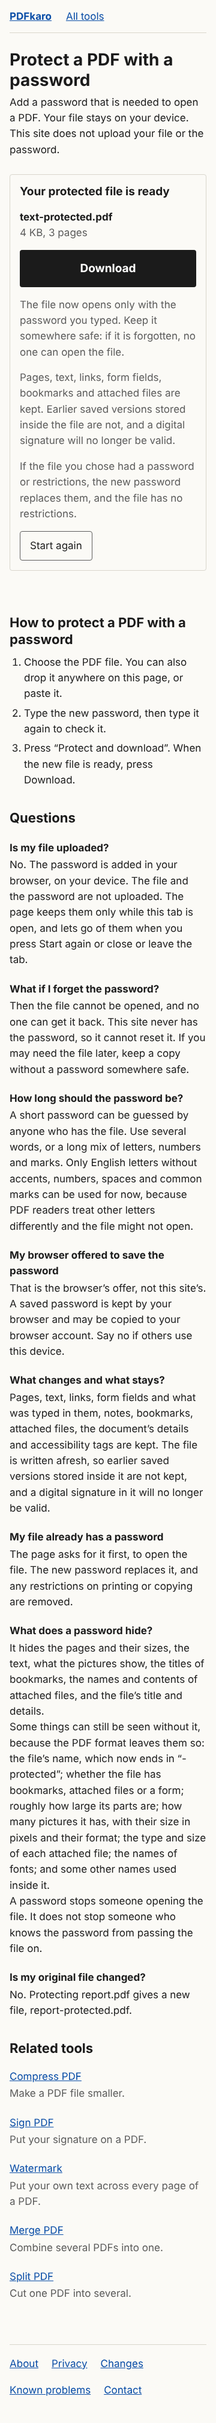
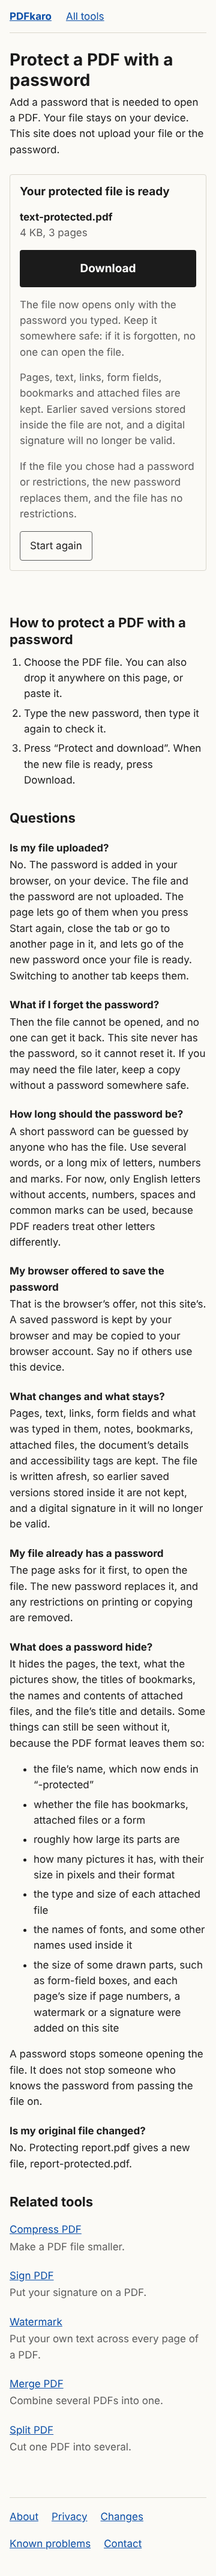
add-protect-pdf: settle stage 2 findings
- strongEncryption tested with every weaker or broken answer, the RC4 file's
  and restricted.pdf's own; qpdf's JSON read with record guards, no casts.
- Page sizes are no longer claimed as hidden: a drawn part's /BBox stays
  readable (form fields, and the layers of Add page numbers, Watermark and
  Sign PDF), said on the page and in the design, spec, tasks and fixtures
  README; form.pdf's /BBox recorded as readable in the unit test.
- The page text says when the page lets go of the file and the password,
  and lists what can still be seen as a plain bulleted list.
- Progress: the write fills the bar to 50, then 55, 95 and 100 as each check
  passes, as the check with the password takes about as long as the write.
- The design's cap passages describe the empty-streams file the test uses.
- Task 10.1 says which 19 screenshots the pull request carries, taken again
  with the new page text.

Claude-Session: https://claude.ai/code/session_01Ht5n4xeEVAutobXrc7qGtN

Changed region(s): [[0.0306, 0.0, 0.9472, 0.9998], [0.6722, 0.906, 0.7333, 0.9373]]

diff --git a/tests/unit/protect-pdf.test.ts b/tests/unit/protect-pdf.test.ts
@@ -362,7 +362,44 @@ describe('what the password hides, and what the format leaves readable', () => {
     // The attached file's name, its dates and its contents are not readable.
     expect(rich).not.toContain('note.txt');
     expect(rich).not.toContain('A note kept inside');
-    expect(latin1((await protect(fixture('form.pdf'))).output)).toContain('/Helvetica');
+    const form = latin1((await protect(fixture('form.pdf'))).output);
+    expect(form).toContain('/Helvetica');
+    // A drawn part's own box, such as a form field's appearance, stays readable too.
+    expect(form).toMatch(/\/BBox\s*\[/);
+  });
+});
+
+describe('strongEncryption, the check of qpdf\'s answer', () => {
+  it('takes the answer for a protected file, and refuses each weaker or broken answer', async () => {
+    const good = await encryptionOf((await protect(fixture('text.pdf'))).output, P);
+    expect(strongEncryption({ encrypt: good })).toBe(true);
+    const parameters = good.parameters as Record<string, unknown>;
+    const capabilities = good.capabilities as Record<string, unknown>;
+    const changed = (change: Record<string, unknown>) => ({ encrypt: { ...good, ...change } });
+    expect(strongEncryption(changed({ encrypted: false }))).toBe(false);
+    expect(strongEncryption(changed({ userpasswordmatched: false }))).toBe(false);
+    expect(strongEncryption(changed({ parameters: { ...parameters, R: 5 } }))).toBe(false);
+    expect(strongEncryption(changed({ parameters: { ...parameters, V: 4 } }))).toBe(false);
+    expect(strongEncryption(changed({ parameters: { ...parameters, bits: 128 } }))).toBe(false);
+    for (const method of ['stringmethod', 'streammethod', 'filemethod']) expect(strongEncryption(changed({ parameters: { ...parameters, [method]: 'AESv2' } })), method).toBe(false);
+    for (const name of Object.keys(capabilities)) {
+      const fewer = Object.fromEntries(Object.entries(capabilities).filter(([key]) => key !== name));
+      expect(strongEncryption(changed({ capabilities: fewer })), name).toBe(false);
+      expect(strongEncryption(changed({ capabilities: { ...capabilities, [name]: false } })), name).toBe(false);
+    }
+    expect(strongEncryption(changed({ parameters: null }))).toBe(false);
+    expect(strongEncryption(changed({ capabilities: [] }))).toBe(false);
+    for (const broken of [null, undefined, {}, { encrypt: 'x' }, { encrypt: null }, { encrypt: [] }, 'encrypt', 42]) expect(strongEncryption(broken), JSON.stringify(broken)).toBe(false);
+  });
+
+  it("refuses restricted.pdf's own answer and a 128-bit RC4 file's", async () => {
+    expect(strongEncryption({ encrypt: await encryptionOf(fixture('restricted.pdf')) })).toBe(false);
+    const qpdf = await makeQpdf();
+    qpdf.write('/in.pdf', fixture('text.pdf'));
+    // Weak encryption is made here, in the test only.
+    const made = qpdf.call(['/in.pdf', '--allow-weak-crypto', '--encrypt', '--user-password=old-rc4', '--owner-password=old-rc4', '--bits=128', '--use-aes=n', '--', '/out.pdf']);
+    expect(finished(made.code)).toBe(true);
+    expect(strongEncryption({ encrypt: await encryptionOf(qpdf.read('/out.pdf'), 'old-rc4') })).toBe(false);
   });
 });
 
@@ -382,14 +419,14 @@ describe('keys, progress and the cap', () => {
     expect(Buffer.from(one).equals(Buffer.from(two))).toBe(false);
   });
 
-  it('progress: reading first, then writing percentages that never go back, with 93, 96 and 100 last', async () => {
+  it('progress: reading first, then writing percentages that never go back, the write up to 50, with 55, 95 and 100 last', async () => {
     const { progress } = await protect(fixture('pages-500.pdf'));
     expect(progress[0]).toEqual({ stage: 'reading', unit: 'file', done: 0, total: 1 });
     const percents = progress.slice(1).map((step) => (step.stage === 'writing' ? step.percent : Number.NaN));
     expect(percents.every((percent) => Number.isFinite(percent))).toBe(true);
     expect(percents).toEqual([...percents].sort((x, y) => x - y));
-    expect(percents.slice(-3)).toEqual([93, 96, 100]);
-    expect(percents.slice(0, -3).every((percent) => percent <= 90)).toBe(true);
+    expect(percents.slice(-3)).toEqual([55, 95, 100]);
+    expect(percents.slice(0, -3).every((percent) => percent <= 50)).toBe(true);
     expect(percents.length).toBeGreaterThan(4);
   });
 

diff --git a/src/engines/tools/protect-pdf.ts b/src/engines/tools/protect-pdf.ts
@@ -22,7 +22,7 @@
 import { inspectPdf } from '../inspect';
 import { freshQpdf, passwordFrom } from '../plain';
 import { cappedWrite, finished, saidInvalidPassword } from '../qpdf';
-import { passwordArgsFor } from '../qpdf-json';
+import { isDict, passwordArgsFor } from '../qpdf-json';
 import type { Engine, EngineTools, Inspector } from '../types';
 import { acceptedPassword, PasswordRefused } from '../../widget/option-values';
 
@@ -74,28 +74,30 @@ const capabilities = ['accessibility', 'extract', 'modify', 'modifyannotations',
 
 /** Whether qpdf's `encrypt` answer is 256-bit AES, revision 6, opened by the password, with every permission. */
 export function strongEncryption(answer: unknown): boolean {
-  const encrypt = (answer as { encrypt?: Record<string, unknown> } | null)?.encrypt;
-  if (typeof encrypt !== 'object' || encrypt === null) return false;
-  const parameters = encrypt.parameters as Record<string, unknown> | undefined;
-  const allowed = encrypt.capabilities as Record<string, unknown> | undefined;
+  if (!isDict(answer) || !isDict(answer.encrypt)) return false;
+  const { encrypt } = answer;
+  const parameters = encrypt.parameters;
+  const allowed = encrypt.capabilities;
+  if (!isDict(parameters) || !isDict(allowed)) return false;
   return (
     encrypt.encrypted === true &&
     encrypt.userpasswordmatched === true &&
-    parameters?.R === 6 &&
+    parameters.R === 6 &&
     parameters.V === 5 &&
     parameters.bits === 256 &&
     parameters.stringmethod === 'AESv3' &&
     parameters.streammethod === 'AESv3' &&
     parameters.filemethod === 'AESv3' &&
-    typeof allowed === 'object' &&
-    allowed !== null &&
     capabilities.every((name) => allowed[name] === true)
   );
 }
 
 const notChecked = 'The protected file did not pass its check.';
 
-/** Checks the new file on a fresh qpdf, moving progress to 93, 96 and 100 as each step passes. */
+/**
+ * Checks the new file on a fresh qpdf, moving progress to 55, 95 and 100 as each step passes: the JSON answer is
+ * quick, `--check` with the password reads every stream and takes about as long as the write, the refusal is quick.
+ */
 async function verify(tools: EngineTools, out: Uint8Array, password: string, onStep: (percent: number) => void): Promise<void> {
   const checker = await freshQpdf(tools, out);
   const described = checker.call([`--password=${password}`, '--json=2', '--json-key=encrypt', '/in.pdf']);
@@ -107,9 +109,9 @@ async function verify(tools: EngineTools, out: Uint8Array, password: string, onS
     throw new Error(notChecked);
   }
   if (!strongEncryption(answer)) throw new Error(notChecked);
-  onStep(93);
+  onStep(55);
   if (!finished(checker.call([`--password=${password}`, '--check', '/in.pdf']).code)) throw new Error(notChecked);
-  onStep(96);
+  onStep(95);
   const without = checker.call(['--check', '/in.pdf']);
   if (finished(without.code) || !saidInvalidPassword(without.printed)) throw new Error(notChecked);
   onStep(100);
@@ -123,7 +125,7 @@ export const run: Engine<Options> = async (files, options, onProgress, tools) =>
   if (password === undefined) throw new PasswordRefused();
   const old = passwordFrom(options);
   onProgress({ stage: 'reading', unit: 'file', done: 0, total: 1 });
-  const out = await protectedBytes(tools, file, old, password, (percent) => onProgress({ stage: 'writing', percent: percent * 0.9 }));
+  const out = await protectedBytes(tools, file, old, password, (percent) => onProgress({ stage: 'writing', percent: percent * 0.5 }));
   await verify(tools, out, password, (percent) => onProgress({ stage: 'writing', percent }));
   return [out];
 };

diff --git a/tests/e2e/protect-pdf.spec.ts b/tests/e2e/protect-pdf.spec.ts
@@ -606,9 +606,14 @@ test.describe('the words below the tool', () => {
       'My file already has a password',
       'What does a password hide?',
       'which now ends in “-protected”',
+      '<li>the size of some drawn parts, such as form-field boxes, and each page’s size if page numbers, a watermark or a signature were added on this site</li>',
+      'Switching to another tab keeps them.',
     ]) {
       expect(html).toContain(words);
     }
+    // What can still be seen is a plain list, and page sizes are not claimed as hidden.
+    expect(html.match(/<ul>[\s\S]*?<\/ul>/)?.[0].match(/<li>/g)).toHaveLength(7);
+    expect(html).not.toContain('pages and their sizes');
     expect(html.toLowerCase()).not.toContain('unlock');
   });
 });

diff --git a/openspec/changes/add-protect-pdf/design.md b/openspec/changes/add-protect-pdf/design.md
@@ -18,7 +18,7 @@
   - **Nothing secret was in the bytes.** P never appeared in a result. The marked title and XMP words did not either, and PDF.js read the title back once the file was opened with P. PDF.js refused no password, and refused P less its last character.
   - **Progress:** qpdf printed several `write progress: N%` lines (52 for `pages-500.pdf`).
   - **Sizes went down** with object streams generated: `text.pdf` from 6,057 to 4,302 bytes, `pages-500.pdf` from 198,025 to 112,521, `tagged.pdf` from 5,118 to about 3,400. With object streams preserved, `tagged.pdf` came out at 6,448. `pages-500.pdf` took about 0.2 s.
-  - **What stays readable.** PDF encryption covers strings and streams only. Names, numbers and dictionaries outside an encrypted object stream are written as they are, and qpdf keeps the catalog outside object streams. So `tagged.pdf`'s `SECRET-DEST-NAME`, a key of the catalog's old-style `/Dests`, stayed readable. The catalog's keys also show whether the file has bookmarks (`/Outlines`), attached files (`/Names /EmbeddedFiles`, with the attachment's name encrypted) or a form. Page dictionaries went into encrypted object streams, so `/MediaBox` and `/Count` were not readable in `text.pdf`, `mixed.pdf` or `rich.pdf`: page sizes and the page count are hidden. But a stream's own dictionary can never go in an object stream, so it stays readable (the privacy reviewer, round 2, with the repo's qpdf): for pictures, how many there are, their pixel size (`/Width`, `/Height`), bits, colour space and format (such as `/JPXDecode`), as on `images.pdf` and `scanned.pdf`; for attached files, their type (`/Subtype`, such as `text/plain`) and size (`/Params /Size`), as on `rich.pdf`, whose attachment's name and dates are encrypted; and font names named in appearance streams (`/Helvetica` on `tagged.pdf` and `form.pdf`). Font names were absent only from `text.pdf`, `mixed.pdf` and `rich.pdf`, whose fonts sit in page resources inside object streams. The file's own name is outside the file and is always visible. Every encrypting tool behaves this way, because it is the format.
+  - **What stays readable.** PDF encryption covers strings and streams only. Names, numbers and dictionaries outside an encrypted object stream are written as they are, and qpdf keeps the catalog outside object streams. So `tagged.pdf`'s `SECRET-DEST-NAME`, a key of the catalog's old-style `/Dests`, stayed readable. The catalog's keys also show whether the file has bookmarks (`/Outlines`), attached files (`/Names /EmbeddedFiles`, with the attachment's name encrypted) or a form. Page dictionaries went into encrypted object streams, so `/MediaBox` and `/Count` were not readable in `text.pdf`, `mixed.pdf` or `rich.pdf`: the page count, and page sizes as the page dictionaries give them, are hidden; but a form XObject's own `/BBox` stays readable, so a file whose pages carry a layer of Add page numbers, Watermark or Sign PDF shows each page's size through it, and form-field appearances show their boxes (privacy reviewer, stage 2). But a stream's own dictionary can never go in an object stream, so it stays readable (the privacy reviewer, round 2, with the repo's qpdf): for pictures, how many there are, their pixel size (`/Width`, `/Height`), bits, colour space and format (such as `/JPXDecode`), as on `images.pdf` and `scanned.pdf`; for attached files, their type (`/Subtype`, such as `text/plain`) and size (`/Params /Size`), as on `rich.pdf`, whose attachment's name and dates are encrypted; and font names named in appearance streams (`/Helvetica` on `tagged.pdf` and `form.pdf`). Font names were absent only from `text.pdf`, `mixed.pdf` and `rich.pdf`, whose fonts sit in page resources inside object streams. The file's own name is outside the file and is always visible. Every encrypting tool behaves this way, because it is the format.
   - **Two qpdf options are unusable here.** `--requires-password` is not usable in this build: it gave exit 2 with "invalid password" on an encrypted file. And qpdf will not write JSON on an instance that has already written. So the result is checked on a fresh instance (decision 4).
   - **`--show-encryption` prints the password.** It prints "User password = P". The JSON form (`--json=2 --json-key=encrypt`) gives R, V, the methods and the capabilities without the password, so the engine reads that.
 
@@ -118,8 +118,8 @@ run([file], options, onProgress, tools):
   password = acceptedPassword('protect-pdf', 'newPassword', options.newPassword)   // undefined: throw new PasswordRefused() before any work
   old = passwordFrom(options)
   onProgress({ stage: 'reading', unit: 'file', done: 0, total: 1 })
-  out = await protectedBytes(tools, file, old, password, (percent) => onProgress({ stage: 'writing', percent: percent * 0.9 }))
-  await verify(tools, out, password, (percent) => onProgress({ stage: 'writing', percent }))   // 93, 96, 100
+  out = await protectedBytes(tools, file, old, password, (percent) => onProgress({ stage: 'writing', percent: percent * 0.5 }))
+  await verify(tools, out, password, (percent) => onProgress({ stage: 'writing', percent }))   // 55, 95, 100
   return [out]
 
 protectedBytes(tools, file, old, password, onWriting):      // the writer lives only inside this function
@@ -144,8 +144,8 @@ inspect = inspectPdf
 
 The check runs on a fresh qpdf holding only `out`. It is fresh because qpdf will not write JSON on an instance that has written, and because the writer's memory can be let go first.
 
-1. Run `--password=P --json=2 --json-key=encrypt /in.pdf`. The answer must say `encrypted` true, `userpasswordmatched` true, R 6, V 5 and bits 256 in `parameters`, `AESv3` for `stringmethod`, `streammethod` and `filemethod`, and every `capabilities` entry true. The JSON holds no password; it is parsed and dropped. Progress goes to 93.
-2. Run `--password=P --check /in.pdf`; it must finish. Progress goes to 96.
+1. Run `--password=P --json=2 --json-key=encrypt /in.pdf`. The answer must say `encrypted` true, `userpasswordmatched` true, R 6, V 5 and bits 256 in `parameters`, `AESv3` for `stringmethod`, `streammethod` and `filemethod`, and every `capabilities` entry true. The JSON holds no password; it is parsed and dropped. Progress goes to 55.
+2. Run `--password=P --check /in.pdf`; it must finish. Progress goes to 95.
 3. Run `--check /in.pdf` with no password; it must fail, with qpdf saying the password is invalid (`saidInvalidPassword`). Progress goes to 100.
 
 Any other answer throws "The protected file did not pass its check."
@@ -214,16 +214,16 @@ The moved code keeps its comments. `useToolRun` behaves exactly as before; the e
 - **Never used:** `--cleartext-metadata` (the title and XMP stay encrypted), `--allow-insecure`, `--allow-weak-crypto` or `--show-encryption`. A unit test reads the engine's source and `protectArgs`, and fails if any of the four appears.
 - **`--object-streams=generate`,** as `writeTurned` and Compress PDF write.
   - It gives smaller files.
-  - It hides page dictionaries (page sizes and count) inside encrypted streams. Stream dictionaries (pictures, attached files, appearance streams) cannot go in object streams and stay readable.
+  - It hides page dictionaries (their sizes and count) inside encrypted streams. Stream dictionaries (pictures, attached files, appearance streams, drawn layers with their `/BBox`) cannot go in object streams and stay readable.
   - Strings packed in object streams are encrypted with their stream rather than one by one, which bounds the growth of a hostile file of many tiny strings.
   - AES-256 needs PDF 1.7 extension level 8, which qpdf sets, so object streams (PDF 1.5) shut out no reader.
 - **Also not used:** `--decrypt`, `--qdf` and linearization.
 
 ### 8. Size, memory, progress and cancel
 
-- **The cap,** `2 × file + 16 MB`, goes through `cappedWrite`. Encryption adds at most 32 bytes (a 16-byte start value and up to 16 bytes of padding) to each stream and each string outside an object stream. With object streams generated, a genuine file grows by far less than its own size, and the experiment's files all shrank. A hostile file built of millions of empty strings in the catalog would grow many times; the cap stops it with the existing sentence.
+- **The cap,** `2 × file + 16 MB`, goes through `cappedWrite`. Encryption adds at most 32 bytes (a 16-byte start value and up to 16 bytes of padding) to each stream and each string outside an object stream. With object streams generated, a genuine file grows by far less than its own size, and the experiment's files all shrank. A hostile file built of millions of empty streams, which can never go in an object stream, would grow by up to 32 bytes each; the cap stops such a file with the existing sentence once it passes. (Empty strings in the catalog do not do it: qpdf packs them into an object stream, which is compressed, as found while building.)
 - **Memory:** decision 3. The peak is the output plus qpdf's own working memory during the write, then one copy of the output in the checker. Task 3.2 measures it.
-- **Progress:** "Reading the file" (`reading`, `file`, 0 of 1) while qpdf parses. Then "Writing the protected file", with qpdf's own percentage scaled to 90, then 93, 96 and 100 as the checks pass.
+- **Progress:** "Reading the file" (`reading`, `file`, 0 of 1) while qpdf parses. Then "Writing the protected file", with qpdf's own percentage scaled to 50, then 55, 95 and 100 as the checks pass. The check with the password reads every stream and takes about as long as the write (measured while building), so the write and the checks each take about half of the bar (architect, stage 2).
 - **Cancel** ends the worker, as for every tool. The fields keep the password (`add-password-option`).
 - **No fixed limit;** the 100 MB notice and the 20,000-page notice are shown, as for every one-file tool.
 
@@ -240,7 +240,7 @@ These are the facts, checked against the code, for that change to use (privacy V
 - **The input file's own password,** typed to open a protected file, is kept while that file is listed. It is forgotten when the file is replaced or left out, on "Start again", and when the page is left.
 - **The browser's offer.** The browser may offer to save the new password, or suggest one. A saved password is kept by the browser and may be copied to the visitor's browser account. That is the browser's offer, which the visitor accepts or not.
 - **It cannot be recovered.** The site never has the password, so it cannot reset it.
-- **What a protected file does not hide:** the file's name; whether it holds bookmarks, attached files or a form; roughly how large its parts are; for each picture, its pixel size, colour space and format; for each attached file, its type and size; font names; and names in the catalog, such as old-style link names. What is hidden: its pages and their sizes, its text, the picture data itself, bookmarks' titles, the contents, names and dates of attached files, and its title and details. The page must not say pictures or attached files are hidden, only their contents. Wording is a draft for the owner.
+- **What a protected file does not hide:** the file's name; whether it holds bookmarks, attached files or a form; roughly how large its parts are; for each picture, its pixel size, colour space and format; for each attached file, its type and size; font names; the size of some drawn parts, such as form-field boxes, and, in a file that already has page numbers, a watermark or a signature added on this site, each page's size; and names in the catalog, such as old-style link names. What is hidden: its pages, its text, the picture data itself, bookmarks' titles, the contents, names and dates of attached files, and its title and details. The page must not say pictures or attached files are hidden, only their contents. Wording is a draft for the owner.
 
 ### 10. The page text
 
@@ -251,7 +251,7 @@ These are the facts, checked against the code, for that change to use (privacy V
 **Questions,** each answered plainly:
 - **Is my file uploaded?**
   - No. The file and the password are not uploaded.
-  - The page keeps them only while the tab is open, and lets go of them on "Start again" or when the tab is closed or left.
+  - The page lets go of the file and the password on "Start again", when the tab is closed or another page is opened in it, and, for the new password, once a job gives a file. Switching to another tab keeps them (privacy reviewer, stage 2; draft wording for the owner).
   - It claims nothing about downloads, keyboard apps or extensions, and makes no "100%" claim.
 - **What if I forget the password?**
   - The file cannot be opened, and no one can get it back. This site never has it.
@@ -266,7 +266,7 @@ These are the facts, checked against the code, for that change to use (privacy V
 - **My file already has a password.** You type it first. The new password replaces it, and restrictions are removed.
 - **What does a password hide?**
   - It hides the pages, the text, what the pictures show, bookmarks' titles, the contents and names of attached files, and the file's title and details.
-  - It does not hide the file's name (which now ends in "-protected"), whether the file holds bookmarks, attached files or a form, roughly how large it is, how many pictures it has with their size in pixels and format, the type and size of each attached file, the names of fonts, or some other names used inside it.
+  - It does not hide the file's name (which now ends in "-protected"), whether the file holds bookmarks, attached files or a form, roughly how large it is, how many pictures it has with their size in pixels and format, the type and size of each attached file, the names of fonts, the size of some drawn parts such as form-field boxes (and each page's size in a file that already has page numbers, a watermark or a signature added on this site), or some other names used inside it. These go in a plain bulleted list (UX reviewer, stage 2).
   - The page does not say pictures or attached files are hidden, only what they show and contain.
   - It stops someone opening the file. It does not stop someone who has the password from passing the file on.
 
@@ -330,8 +330,8 @@ None added.
   - **What stays readable.** In `tagged.pdf`, every `SECRET-` marker held in a string or stream is absent from the bytes. `SECRET-DEST-NAME`, a name, is present, because the format leaves names readable; it is recorded, not hidden. Recorded the same way: `/Width` on `images.pdf`'s result, the attached file's `/Subtype` on `rich.pdf`'s, and `/Helvetica` on `form.pdf`'s, as stream dictionaries stay readable. No result shows `/MediaBox` in plain text, and `rich.pdf`'s attachment name `note.txt` is not readable.
   - **Older encryption.** A file made in the test with RC4 128-bit encryption (made with `--allow-weak-crypto` in the test only) comes back AESv3 only, and the old password is refused.
   - **Fresh keys.** The same file protected twice gives different `/U`, `/O`, `/UE` and `/OE`.
-  - **Progress:** reading first, then writing percentages that never go back, with 93, 96 and 100 last.
-  - **The cap.** `protectLimit` is checked directly. A real file made in the test, with many empty strings in its catalog, is written through `protectedBytes` under a small limit and refused with `OutputLimit`.
+  - **Progress:** reading first, then writing percentages that never go back, the write at most 50, with 55, 95 and 100 last.
+  - **The cap.** `protectLimit` is checked directly. A real file made in the test, with 20,000 empty streams, grows when protected but stays inside its real cap, and written through `protectedBytes` under a cap of its own size it is refused with `OutputLimit`.
   - **No error holds a password.** Every error the engine can throw holds neither marked password.
 - **`tests/unit/qpdf.test.ts`, or the existing qpdf test file:** `cappedWrite` and `writePercent`, as decision 5 lists.
 - **`tests/unit/run-job.test.ts`:** decision 6.

diff --git a/tests/fixtures/README.md b/tests/fixtures/README.md
@@ -632,13 +632,13 @@ Each file was protected in Node with the same qpdf the browser uses, with the ne
 
 | File | Before | After | Outcome |
 | --- | --- | --- | --- |
-| `text.pdf`, `warning.pdf` | 6,057 | 4,302 | Protected; written in object streams, so smaller. qpdf's warning does not stop the job. Progress "Reading the file", then writing up to 90%, then 93, 96 and 100 as each check of the result passes |
+| `text.pdf`, `warning.pdf` | 6,057 | 4,302 | Protected; written in object streams, so smaller. qpdf's warning does not stop the job. Progress "Reading the file", then writing up to 50%, then 55, 95 and 100 as each check of the result passes |
 | `pages-500.pdf` | 198,025 | 112,521 | All 500 pages, with their text |
 | `scanned.pdf` | 6,191 | 6,746 | Protected; its two pictures' dictionaries (`/Width`, `/Height`, colour space, format) stay readable |
 | `password.pdf` | 7,178 | 4,302 | With `open-sesame`: the new password only, every permission allowed; `open-sesame` no longer opens it and is not in its bytes. Without it, or with `open-sesam`: "A password did not open the file." |
 | `restricted.pdf` | 7,181 | 4,302 | Needs the new password, with no restrictions |
 | `damaged-xref.pdf`, `damaged-cut.pdf`, `not-a-pdf.pdf` | | | Read as damaged before any job; a run fails with "qpdf could not write the protected file." and hands back nothing |
-| `form.pdf` | 3,189 | 3,491 | Both fields kept, with the value `Sample text`; the field's appearance names `/Helvetica`, readable |
+| `form.pdf` | 3,189 | 3,491 | Both fields kept, with the value `Sample text`; the field's appearance names `/Helvetica` and gives its `/BBox`, both readable |
 | `mixed.pdf` | 2,257 | 2,378 | Sizes and turns kept |
 | `rich.pdf` | 2,064 | 2,757 | Bookmarks "Chapter one" and "Chapter two" pointing to their pages, the link and `note.txt` with its contents kept. The attachment's name, dates and contents are not readable; its type (`/Subtype /text#2fplain`) and size are |
 | `images.pdf` | 1,642 | 2,290 | Protected; the JPEG 2000 picture's dictionary (`/Width`, format) stays readable |
@@ -667,7 +667,7 @@ Files and inputs made in the test (`tests/unit/protect-pdf.test.ts`):
 | No new password, an empty one, 128 characters, "café", a space first or last, a line break, a number, `null`, one under `__proto__` or under `password` | Refused with `PasswordRefused` (`password-refused`) before qpdf is asked for; no error holds what was sent |
 | Every failure above, with both marked passwords | No error's message or stack holds either password or its parts |
 
-Measured on 22 Nov 2026 in Node, each case in a process of its own under the test runner, with qpdf loaded first on `text.pdf`; peak is the process's highest resident memory, including the runner's own (about 0.1 GB before a small job, 0.28 GB once the 100 MB file is read). The time is split at the end of qpdf's write (the write, then the check of the result). In Chromium, the built page through Playwright at 1280 pixels, from pressing the main button to the result, the check timed from the bar reaching 90%, with the resident memory of every browser process added up and sampled every 0.2 seconds, over its level just before the press.
+Measured on 22 Nov 2026 in Node, each case in a process of its own under the test runner, with qpdf loaded first on `text.pdf`; peak is the process's highest resident memory, including the runner's own (about 0.1 GB before a small job, 0.28 GB once the 100 MB file is read). The time is split at the end of qpdf's write (the write, then the check of the result). In Chromium, the built page through Playwright at 1280 pixels, from pressing the main button to the result, the check timed from the bar reaching 90%, where the write ended under the bar's weighting at the time (the write now fills it to 50%), with the resident memory of every browser process added up and sampled every 0.2 seconds, over its level just before the press.
 
 | File | In | Out | Node: time (write, check) | Node: peak | Chromium: time (check) | Chromium: peak over baseline |
 | --- | --- | --- | --- | --- | --- | --- |
@@ -679,6 +679,6 @@ The check of the result (decision 4 of the change) takes a little longer than th
 
 The input is let go before the output is read: in Node, with the 100 MB file written by `cappedWrite`, which removes `/in.pdf` once the write has passed, the memory held right after the output is read (after a garbage collection) is 318 MB, against 423 MB when the same call keeps `/in.pdf`, each from 210 MB held at the start (the file and qpdf's copy of it). The peak itself comes during the write, when the file, qpdf's copy and the growing output all exist.
 
-What stays readable without the password, because PDF encryption covers strings and streams only and the format never puts a stream's own dictionary in an object stream: the file's name, which is outside the file; whether it holds bookmarks, attached files or a form (the catalog's keys); roughly how large its parts are; each picture's pixel size, bits, colour space and format; each attached file's type and size; font names named in appearance streams; and names in the catalog, such as old-style destination names. What is hidden: its pages and their sizes, its text, the pictures' data, bookmarks' titles, attached files' names, dates and contents, and its title and XMP details.
+What stays readable without the password, because PDF encryption covers strings and streams only and the format never puts a stream's own dictionary in an object stream: the file's name, which is outside the file; whether it holds bookmarks, attached files or a form (the catalog's keys); roughly how large its parts are; each picture's pixel size, bits, colour space and format; each attached file's type and size; font names named in appearance streams; each drawn part's box (a form XObject's `/BBox`), such as a form field's appearance (`/BBox` on `form.pdf`'s result) and, in a file that carries a layer of Add page numbers, Watermark or Sign PDF, each page's size; and names in the catalog, such as old-style destination names. What is hidden: its pages and the sizes their dictionaries give, its text, the pictures' data, bookmarks' titles, attached files' names, dates and contents, and its title and XMP details.
 
 The multilingual file is still missing. Protect leaves text as it is, but the test set needs the file, so Protect is not done until it exists and Protect has been run on it.

diff --git a/openspec/changes/add-protect-pdf/tasks.md b/openspec/changes/add-protect-pdf/tasks.md
@@ -42,7 +42,7 @@ Built on `add-password-option` (PR #28), merged first. Two shared changes and on
   - `protectArgs`, `protectLimit` and `protectedBytes` exported;
   - one qpdf call in the in-memory argument list only, through `cappedWrite`, so `/in.pdf` is removed before the output is read, and the writer is local to `protectedBytes`;
   - the check on a fresh qpdf: JSON `encrypt` with R 6, V 5, AESv3 three times and every capability; `--check` with the password; refused without it;
-  - progress: reading, then writing scaled to 90, then 93, 96 and 100 after each check step;
+  - progress: reading, then writing scaled to 50, then 55, 95 and 100 after each check step (stage 2: the check with the password takes about as long as the write);
   - fixed error sentences that never hold qpdf's printed text or a password;
   - `inspect` is `inspectPdf`.
 
@@ -103,7 +103,7 @@ Built on `add-password-option` (PR #28), merged first. Two shared changes and on
   - one question on what changes and what stays;
   - signatures;
   - an earlier password and restrictions being replaced;
-  - what a password hides and does not hide: the file's name, whether it has bookmarks, attached files or a form, rough size, each picture's pixel size and format, each attached file's type and size, font names and some other names stay visible; pages, page sizes, text, what pictures show and the names and contents of attached files do not; it never says pictures or attached files are hidden as a whole (wording a draft for the owner).
+  - what a password hides and does not hide: the file's name, whether it has bookmarks, attached files or a form, rough size, each picture's pixel size and format, each attached file's type and size, font names, the size of some drawn parts, such as form-field boxes, and, in a file that already has page numbers, a watermark or a signature added on this site, each page's size, and some other names stay visible, as a plain bulleted list; pages, text, what pictures show and the names and contents of attached files do not; it never says pictures or attached files are hidden as a whole (wording a draft for the owner).
 
   The privacy words say only what the page controls. No "unlock", no "100%", no capitals for emphasis, and no question that restates the title. Check it against "Banned patterns". Verify that the built page holds the heading, sentence, steps and questions with scripts off, and that the word count is within range.
 
@@ -184,7 +184,14 @@ Built on `add-password-option` (PR #28), merged first. Two shared changes and on
   - input password, damaged, failed;
   - the 20,000-page notice.
 
-  Also take a 360 × 640 screenshot with focus in the first field, showing both fields and the hint above the fold. Take the listed states with an error, and the result, at 200% text size, with nothing overflowing sideways. Verify by looking at each, and add them to the change folder.
+  Also take a 360 × 640 screenshot with focus in the first field, showing both fields and the hint above the fold. Take the listed states with an error, and the result, at 200% text size, with nothing overflowing sideways. Verify by looking at each.
+
+  Every state above, in each width and scheme, was taken and checked at commit 50251ca, before the hint changed; nothing scrolled sideways. To keep the folder small (coordinator, stage 2), the pull request carries these 19, taken again after the hint change and the stage 2 page text, in `.github/pr-screenshots/protect-pdf/`:
+  - at 360px and 1280px, light: empty, listed, typed once, different, result and failed;
+  - at 360px, light: refused characters and both matching;
+  - at 360 × 640, light and dark: focus in the first field, with the first label near the top, both fields, the hint and the note above the fold;
+  - at 360px, dark: result and different;
+  - at 360px, light, 200% text: different.
 
 ## 11. Checks and review
 

diff --git a/src/content/tools/protect-pdf.md b/src/content/tools/protect-pdf.md
@@ -12,7 +12,7 @@ status: Draft. Waiting for the owner to review this wording before the tool is c
 
 ### Is my file uploaded?
 
-No. The password is added in your browser, on your device. The file and the password are not uploaded. The page keeps them only while this tab is open, and lets go of them when you press Start again or close or leave the tab.
+No. The password is added in your browser, on your device. The file and the password are not uploaded. The page lets go of them when you press Start again, close the tab or go to another page in it, and lets go of the new password once your file is ready. Switching to another tab keeps them.
 
 ### What if I forget the password?
 
@@ -20,7 +20,7 @@ Then the file cannot be opened, and no one can get it back. This site never has 
 
 ### How long should the password be?
 
-A short password can be guessed by anyone who has the file. Use several words, or a long mix of letters, numbers and marks. Only English letters without accents, numbers, spaces and common marks can be used for now, because PDF readers treat other letters differently and the file might not open.
+A short password can be guessed by anyone who has the file. Use several words, or a long mix of letters, numbers and marks. For now, only English letters without accents, numbers, spaces and common marks can be used, because PDF readers treat other letters differently.
 
 ### My browser offered to save the password
 
@@ -36,9 +36,15 @@ The page asks for it first, to open the file. The new password replaces it, and 
 
 ### What does a password hide?
 
-It hides the pages and their sizes, the text, what the pictures show, the titles of bookmarks, the names and contents of attached files, and the file’s title and details.
+It hides the pages, the text, what the pictures show, the titles of bookmarks, the names and contents of attached files, and the file’s title and details. Some things can still be seen without it, because the PDF format leaves them so:
 
-Some things can still be seen without it, because the PDF format leaves them so: the file’s name, which now ends in “-protected”; whether the file has bookmarks, attached files or a form; roughly how large its parts are; how many pictures it has, with their size in pixels and their format; the type and size of each attached file; the names of fonts; and some other names used inside it.
+- the file’s name, which now ends in “-protected”
+- whether the file has bookmarks, attached files or a form
+- roughly how large its parts are
+- how many pictures it has, with their size in pixels and their format
+- the type and size of each attached file
+- the names of fonts, and some other names used inside it
+- the size of some drawn parts, such as form-field boxes, and each page’s size if page numbers, a watermark or a signature were added on this site
 
 A password stops someone opening the file. It does not stop someone who knows the password from passing the file on.
 

diff --git a/openspec/changes/add-protect-pdf/specs/protect-pdf/spec.md b/openspec/changes/add-protect-pdf/specs/protect-pdf/spec.md
@@ -306,4 +306,4 @@ The page SHALL carry three or four how-to steps and real questions, 250 to 500 w
 #### Scenario: The text is in the served page
 
 - **WHEN** the built `/protect-pdf` page is fetched without running scripts
-- **THEN** its heading, sentence, steps and questions are in the HTML, they include "A short password can be guessed by anyone who has the file.", and they say that without the password the file's name (ending `-protected`), whether it holds bookmarks, attached files or a form, roughly how large its parts are, each picture's pixel size and format, each attached file's type and size, font names and some other names inside it stay visible, while its pages, their sizes, its text, what its pictures show and the names and contents of its attached files do not; they never say pictures or attached files are hidden as a whole
+- **THEN** its heading, sentence, steps and questions are in the HTML, they include "A short password can be guessed by anyone who has the file.", and they say that without the password the file's name (ending `-protected`), whether it holds bookmarks, attached files or a form, roughly how large its parts are, each picture's pixel size and format, each attached file's type and size, font names, the size of some drawn parts, such as form-field boxes, and, in a file that already has page numbers, a watermark or a signature added on this site, each page's size, and some other names inside it stay visible, while its pages, its text, what its pictures show and the names and contents of its attached files do not; they never say pictures or attached files are hidden as a whole

diff --git a/openspec/changes/add-protect-pdf/proposal.md b/openspec/changes/add-protect-pdf/proposal.md
@@ -31,11 +31,12 @@ Protect with a password (`/protect-pdf`) is the next Phase 1 tool in catalogue o
   - roughly how large its parts are;
   - for each picture, its pixel size, colour space and format, though not what it shows;
   - for each attached file, its type and size, though not its name, dates or contents;
-  - font names, and other names used inside it, such as old-style link names.
+  - font names, and other names used inside it, such as old-style link names;
+  - the size of some drawn parts, such as form-field boxes, and, in a file that already has page numbers, a watermark or a signature added on this site, each page's size (privacy reviewer, stage 2).
 
   The page says so, and never says pictures or attached files are hidden, only what they show and contain (privacy reviewer, round 2).
 - **Output** is named `report-protected.pdf`.
-- **Progress** shows "Reading the file", then "Writing the protected file" with qpdf's own percentage up to 90, then 93, 96 and 100 as each check of the result passes. Cancel works throughout.
+- **Progress** shows "Reading the file", then "Writing the protected file" with qpdf's own percentage up to 50, then 55, 95 and 100 as each check of the result passes (the check with the password takes about as long as the write). Cancel works throughout.
 - **The output is capped** at `2 × file + 16 MB`. Encryption adds at most 32 bytes to each string and stream of a genuine file. Past the cap, the page shows the existing `output-limit` failure.
 - **The password's life,** unchanged from `add-password-option`:
   - It is held in `useToolRun` only.
